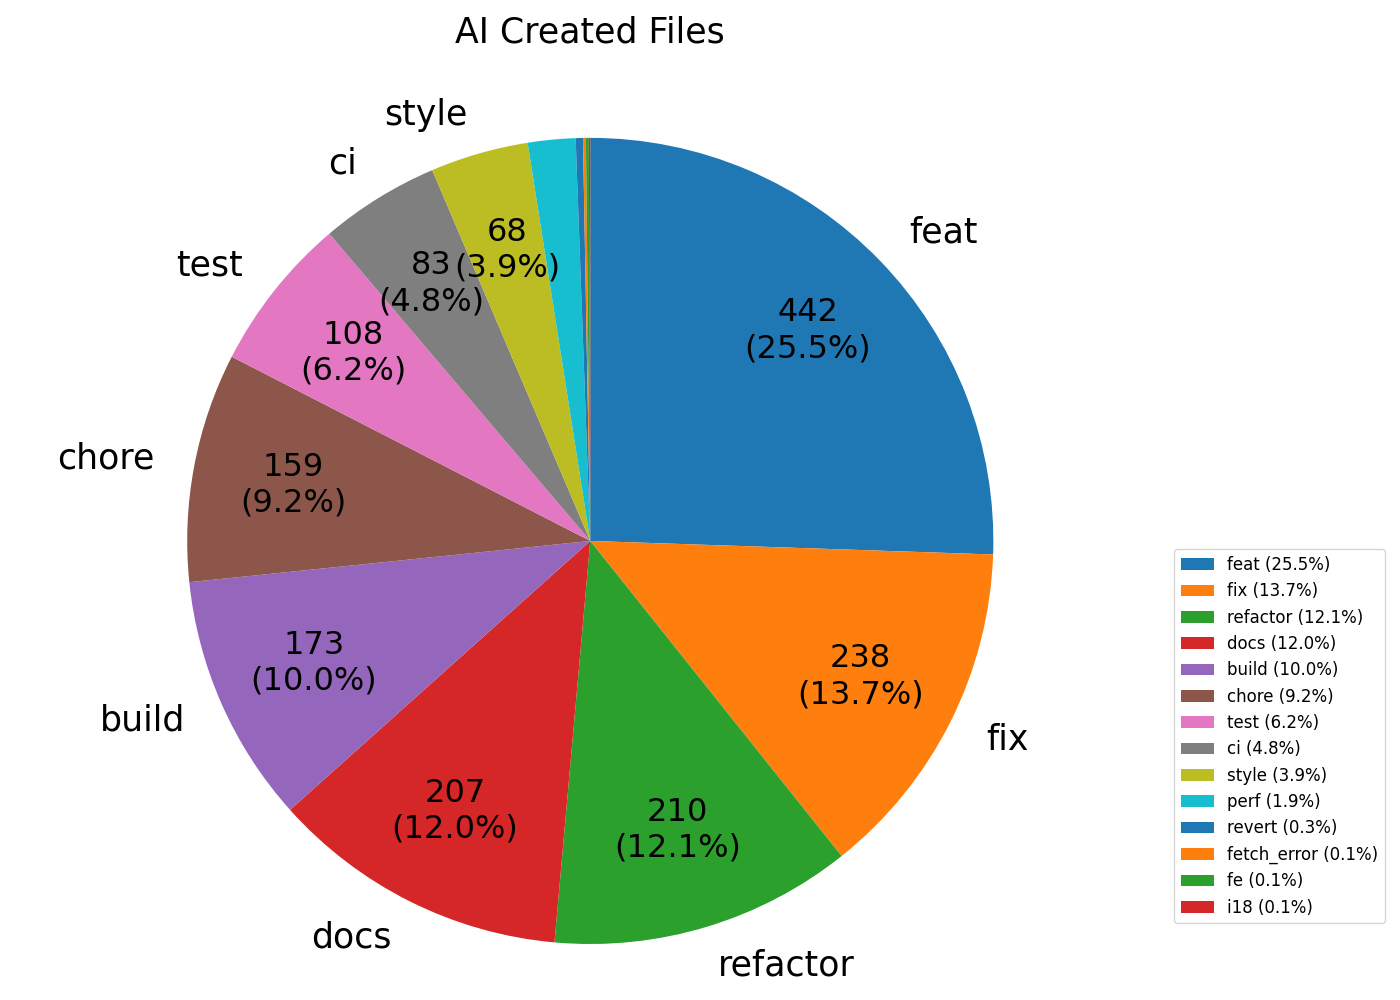
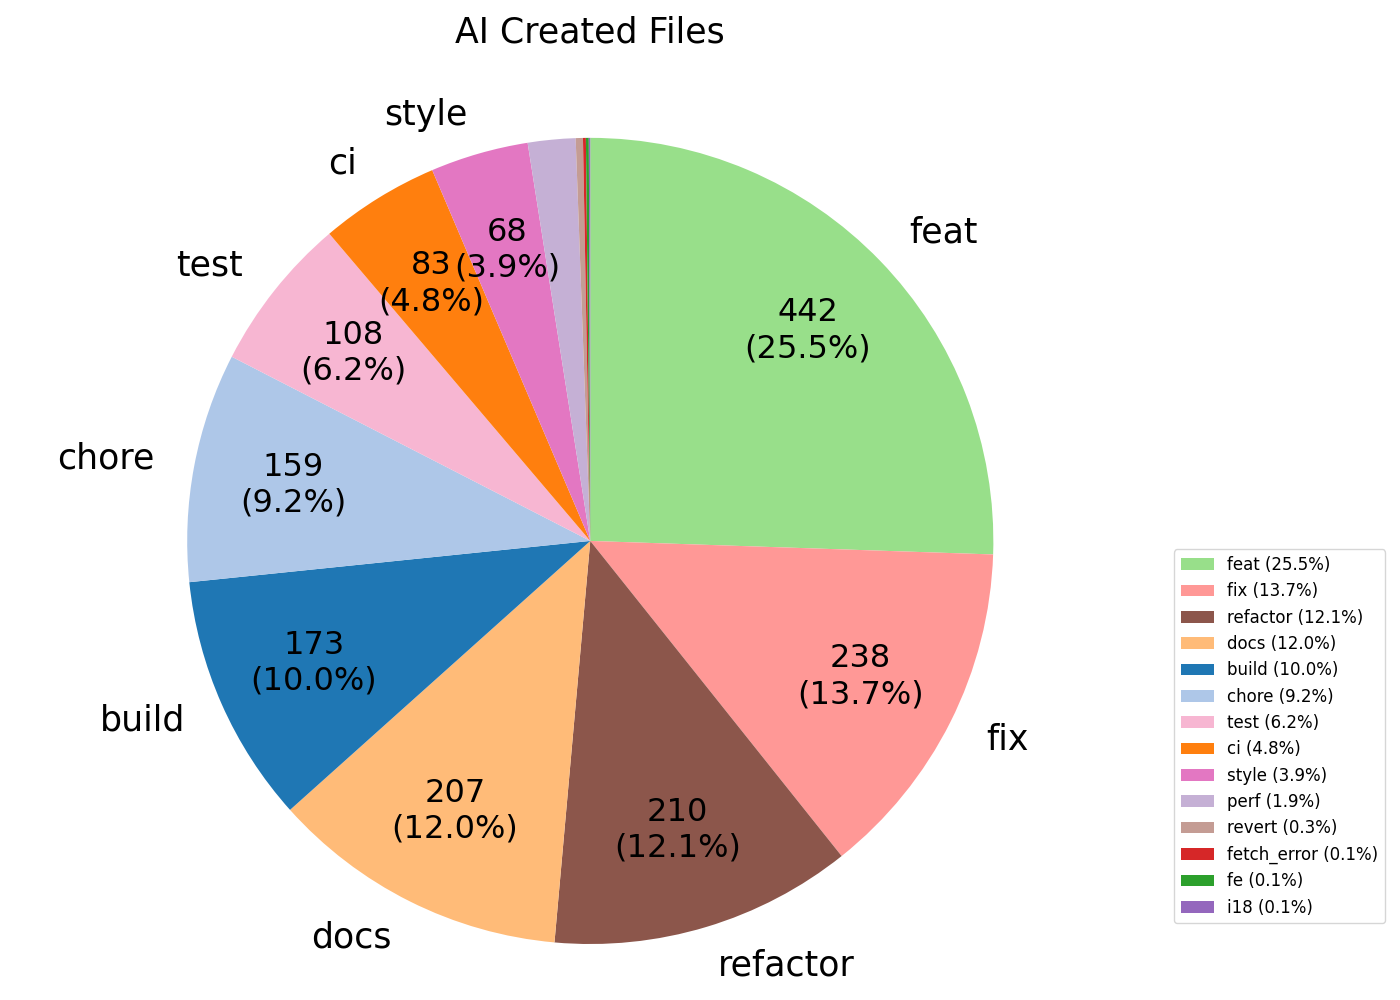
RQ3の結果の変更

diff --git a/src/RQ3_analyze.py b/src/RQ3_analyze.py
@@ -28,6 +28,12 @@ def analyze_commit_classification():
     ai_total = len(ai_df)
     human_total = len(human_df)
 
+    # 統一されたカラーマップの作成
+    all_categories = set(ai_counts.index) | set(human_counts.index)
+    # tab20カラーパレットを使用して、各カテゴリに固定の色を割り当て
+    cmap = plt.get_cmap('tab20')
+    colors_map = {cat: cmap(i % 20) for i, cat in enumerate(sorted(list(all_categories)))}
+
     # 出力テキストの準備
     output_lines = []
     
@@ -49,7 +55,7 @@ def analyze_commit_classification():
     print(f"Results written to {output_txt}")
 
     # 円グラフの生成
-    def create_pie_chart(counts, title, output_path):
+    def create_pie_chart(counts, title, output_path, colors_map):
         if counts.empty:
             print(f"No data for {title}")
             return
@@ -61,6 +67,7 @@ def analyze_commit_classification():
         plot_values = []
         plot_labels = []
         legend_labels = [] # 凡例用の全ラベルリスト
+        slice_colors = []  # スライス用の色リスト
         
         # 表示閾値（3%未満は表示しない）
         threshold = 0.03
@@ -68,6 +75,7 @@ def analyze_commit_classification():
         for i, (index, value) in enumerate(zip(counts.index, counts.values)):
             plot_values.append(value)
             percentage = value / total_val
+            slice_colors.append(colors_map.get(index, 'gray')) # マップから色を取得
             
             # 凡例用には全ての項目を作成（個別にパーセンテージ表示）
             legend_labels.append(f'{index} ({percentage*100:.1f}%)')
@@ -93,6 +101,7 @@ def analyze_commit_classification():
         patches, texts, autotexts = plt.pie(
             plot_values, 
             labels=plot_labels, # 円グラフの外側にラベル（名前）
+            colors=slice_colors, # 固定色を適用
             startangle=90,
             counterclock=False,
             textprops={'fontsize': 25}, # 外側のラベルのフォントサイズを拡大
@@ -115,8 +124,8 @@ def analyze_commit_classification():
         plt.close()
         print(f"Pie chart saved to {output_path}")
 
-    create_pie_chart(ai_counts, 'AI Created Files', output_img_ai)
-    create_pie_chart(human_counts, 'Human Created Files', output_img_human)
+    create_pie_chart(ai_counts, 'AI Created Files', output_img_ai, colors_map)
+    create_pie_chart(human_counts, 'Human Created Files', output_img_human, colors_map)
 
 if __name__ == "__main__":
     analyze_commit_classification()

diff --git a/src/find_test_commits.py b/src/find_test_commits.py
@@ -1,0 +1,33 @@
+import pandas as pd
+import os
+
+def find_test_commits():
+    base_dir = os.path.dirname(os.path.abspath(__file__))
+    input_file = os.path.join(base_dir, '..', 'results', 'results_v4.csv')
+
+    try:
+        df = pd.read_csv(input_file)
+    except FileNotFoundError:
+        print(f"Error: File not found at {input_file}")
+        return
+
+    # Filter for 'tests' classification
+    # Note: The user said "tests", but looking at the file content I see "fix", "chore". 
+    # I should check if "tests" exists or if it might be "test".
+    # I will filter for exact match 'tests' first as requested.
+    
+    test_commits = df[df['commit_classification'] == 'tests']
+    
+    if test_commits.empty:
+        print("No commits found with classification 'tests'.")
+        # Let's also check for 'test' just in case
+        test_commits_singular = df[df['commit_classification'] == 'test']
+        if not test_commits_singular.empty:
+             print(f"Found {len(test_commits_singular)} commits with classification 'test'.")
+             print(test_commits_singular[['repository_name', 'commit_hash', 'file_name', 'commit_classification']].to_string())
+    else:
+        print(f"Found {len(test_commits)} commits with classification 'tests':")
+        print(test_commits[['repository_name', 'commit_hash', 'file_name', 'commit_classification']].to_string())
+
+if __name__ == "__main__":
+    find_test_commits()
